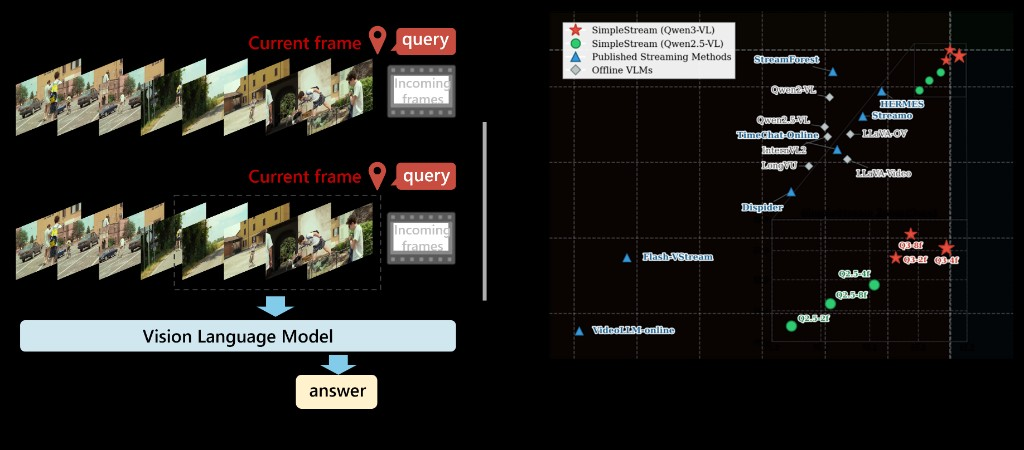
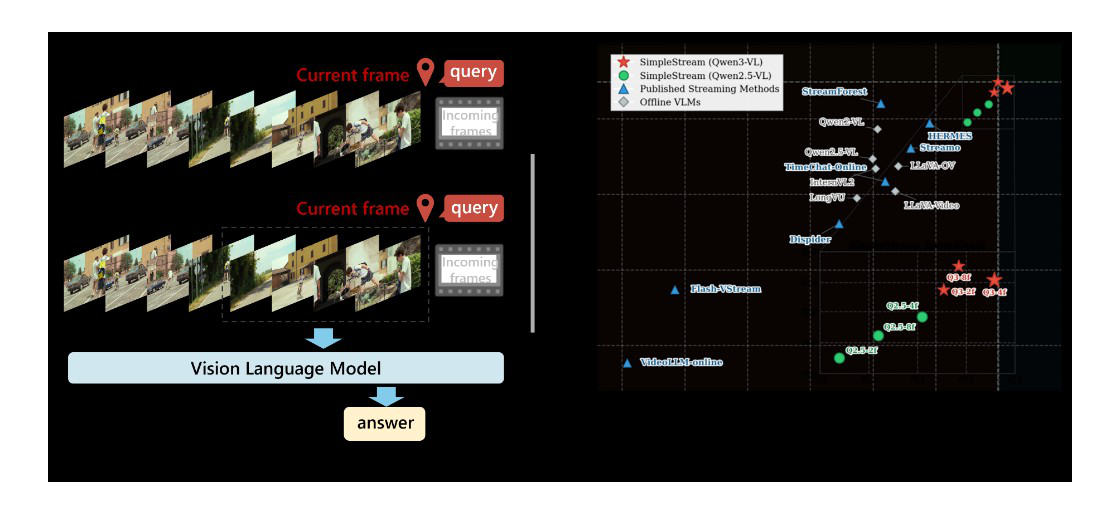
Add white background and enlarge SimpleStream cover

diff --git a/_includes/widgets/publication_item.html b/_includes/widgets/publication_item.html
@@ -1,14 +1,14 @@
 {% assign item = include.item %}
 <div class="d-none d-md-block">
     <div class="row no-gutters {% unless include.hide_bottom_border %}border-bottom{% endunless %} border-gray">
-        <div class="col-md-3 col-xl-2 mb-md-0 p-md-3">
+        <div class="col-md-4 col-xl-3 mb-md-0 p-md-3">
             {%- if item.cover -%}
-            <img data-src="{{ item.cover | relative_url }}" alt="{{ item.title }}" class="lazy w-100 rounded-sm" src="{{ '/assets/images/empty_300x200.png' | relative_url }}">
+            <img data-src="{{ item.cover | relative_url }}" alt="{{ item.title }}" class="lazy w-100 rounded-sm publication-cover" src="{{ '/assets/images/empty_300x200.png' | relative_url }}">
             {%- else -%}
             <svg class="bubble-visual-hash lazy w-100 rounded-sm" data-bubble-visual-hash="{{ item.id }}" viewBox="0 0 300 200"></svg>
             {%- endif -%}
         </div>
-        <div class="col-md-9 col-xl-10 p-3 pl-md-0">
+        <div class="col-md-8 col-xl-9 p-3 pl-md-0">
             <h5 class="mt-0 mb-1 font-weight-normal">{{ item.title }}</h5>
             <p class="mt-0 mb-0 small">{% include widgets/author_list.html authors=item.authors %}</p>
             <p class="mt-0 mb-0 small">{{item.pub_pre}}<i>{{ item.pub }}</i>{{ item.pub_post }} {{ item.pub_date }} {{ item.pub_last }} <span data-semantic-scholar-id="{{ item.semantic_scholar_id }}"></span></p>

diff --git a/assets/css/global.css b/assets/css/global.css
@@ -100,3 +100,10 @@ div.lazy {
     flex-shrink: 0;
 }
 
+.publication-cover {
+    background: #ffffff;
+    border: 1px solid #e9ecef;
+    padding: 0.35rem;
+    object-fit: contain;
+}
+
